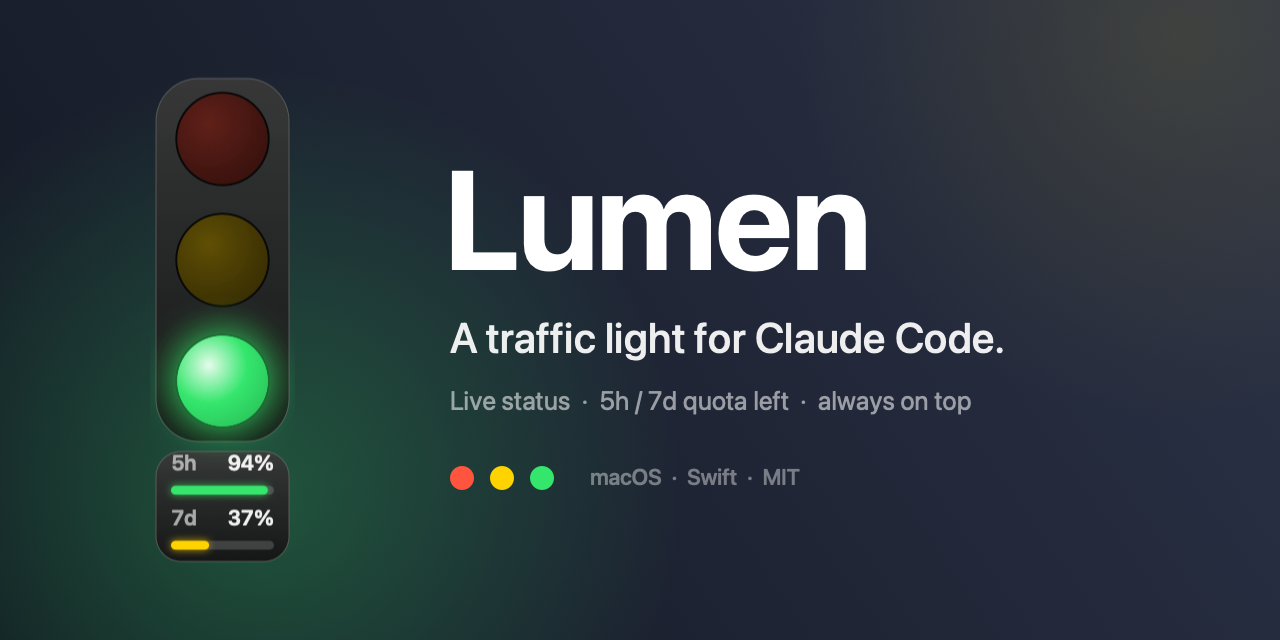
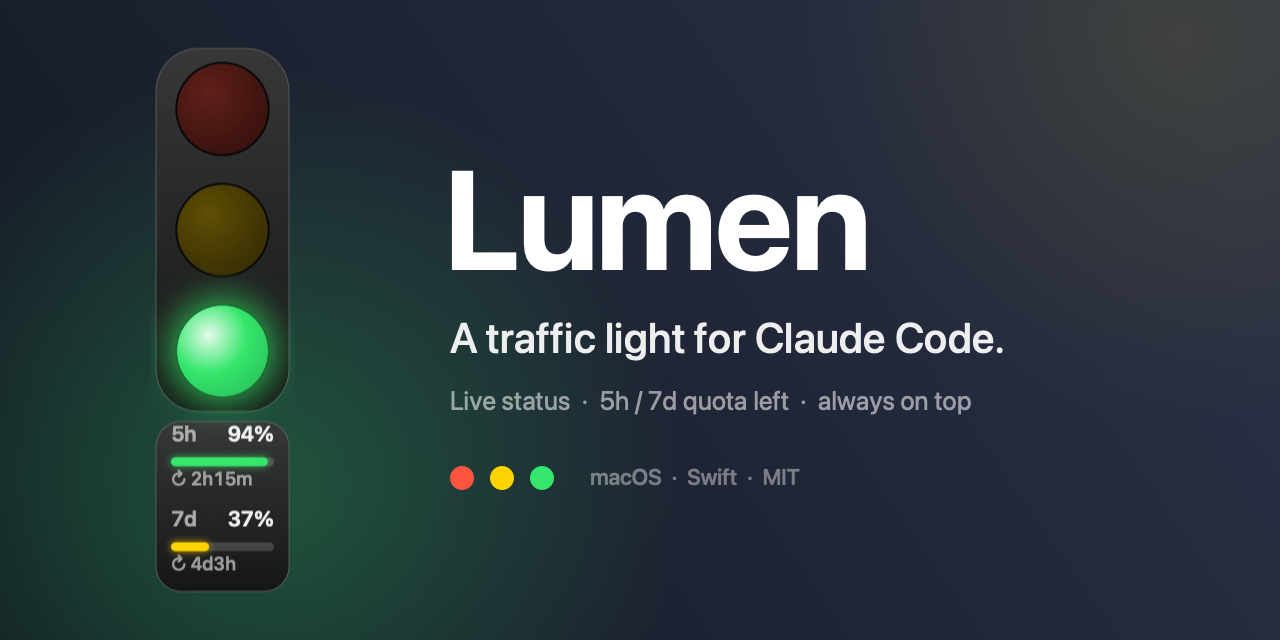
Show time until quota reset in the gauge and menu bar
- Gauge: countdown line under each bar (e.g. "↻ 2h15m", "↻ 4d3h")
- Menu bar title: emoji + remaining % and countdown per window,
  separately toggleable
- Refresh immediately when a window has just reset
- Menu/tooltip: countdown plus absolute reset time
- Update README (en/zh-CN/de) and regenerate banner/state images

Changed region(s): [[0.125, 0.0625, 0.25, 0.8125], [0.125, 0.8438, 0.25, 0.9375]]

diff --git a/Sources/main.swift b/Sources/main.swift
@@ -276,6 +276,18 @@ struct QuotaWindow {
     var used: Double          // verbrauchte Prozent (0–100)
     var resetsAt: Date?
     var remaining: Double { max(0, min(100, 100 - used)) }
+
+    var isExpired: Bool { resetsAt.map { $0 <= Date() } ?? false }
+
+    /// Kompakte Restzeit bis zum Reset: "42m", "2h14m", "4d3h". nil = unbekannt oder bereits abgelaufen.
+    var countdown: String? {
+        guard let r = resetsAt else { return nil }
+        let mins = Int((r.timeIntervalSinceNow / 60).rounded(.up))
+        guard mins > 0 else { return nil }
+        if mins < 60 { return "\(mins)m" }
+        if mins < 24 * 60 { return "\(mins / 60)h\(String(format: "%02d", mins % 60))m" }
+        return "\(mins / 1440)d\((mins % 1440) / 60)h"
+    }
 }
 
 struct QuotaSnapshot {
@@ -341,7 +353,7 @@ enum QuotaFetcher {
 
 final class TrafficLightView: NSView {
     /// Höhe des Kontingent-Bereichs unter der Ampel (bei Skalierung 1.0)
-    static let gaugeAreaHeight: CGFloat = 48
+    static let gaugeAreaHeight: CGFloat = 72
 
     var state: LightState = .off { didSet { needsDisplay = true } }
     var quota: QuotaSnapshot? { didSet { needsDisplay = true } }
@@ -382,13 +394,21 @@ final class TrafficLightView: NSView {
         let inset = 6 * s
         let font = NSFont.monospacedDigitSystemFont(ofSize: 8.5 * s, weight: .semibold)
         let barH = 3.5 * s
+        let small = NSFont.monospacedDigitSystemFont(ofSize: 7.5 * s, weight: .medium)
 
         for (i, row) in rows.enumerated() {
             let rowTop = rect.maxY - rowH * CGFloat(i)
-            let contentH = font.capHeight + 3 * s + barH
-            let bottom = rowTop - rowH / 2 - contentH / 2
+            let contentH = font.capHeight + 3 * s + barH + 5.5 * s + small.capHeight
+            let contentBottom = rowTop - rowH / 2 - contentH / 2
+            let bottom = contentBottom + small.capHeight + 5.5 * s   // Unterkante des Balkens
             let x = rect.minX + inset
             let w = rect.width - inset * 2
+
+            // Restzeit bis zum Reset
+            let cdText = row.1 == nil ? "" : "↻ " + (row.1?.countdown ?? "…")
+            NSAttributedString(string: cdText, attributes: [
+                .font: small, .foregroundColor: NSColor(white: 1, alpha: 0.5 * dim)])
+                .draw(at: NSPoint(x: x, y: contentBottom - small.descender))
 
             // Balken
             let track = NSRect(x: x, y: bottom, width: w, height: barH)
@@ -508,6 +528,12 @@ final class AppDelegate: NSObject, NSApplicationDelegate, NSMenuDelegate {
         get { defaults.object(forKey: "showQuota") as? Bool ?? true }
         set { defaults.set(newValue, forKey: "showQuota") }
     }
+    private var showStatusQuota: Bool {
+        get { defaults.object(forKey: "showStatusQuota") as? Bool ?? true }
+        set { defaults.set(newValue, forKey: "showStatusQuota") }
+    }
+    private var lastQuotaAttempt = Date.distantPast
+    private var lastMinute = 0
     private var quota: QuotaSnapshot?
     private var quotaFetching = false
     private var nextQuotaFetch = Date.distantPast
@@ -608,15 +634,36 @@ final class AppDelegate: NSObject, NSApplicationDelegate, NSMenuDelegate {
             lightView.state = state
             lightView.blinkOn = true
         }
-        statusItem.button?.title = monitoringEnabled ? state.emoji : "⚫"
+        statusItem.button?.attributedTitle = statusTitle(state)
+        let minute = Int(Date().timeIntervalSince1970 / 60)
+        if minute != lastMinute { lastMinute = minute; lightView.needsDisplay = true }
         statusItem.button?.toolTip = "Claude Code 红绿灯 – " + (monitoringEnabled ? state.label : "已暂停")
         lightView.toolTip = tooltipText()
         updatePanelVisibility()
         refreshQuotaIfNeeded()
     }
 
+    /// Menüleisten-Titel: Ampel-Emoji + Rest-% und Zeit bis zum Reset je Fenster.
+    private func statusTitle(_ state: LightState) -> NSAttributedString {
+        let font = NSFont.monospacedDigitSystemFont(ofSize: 11, weight: .medium)
+        guard monitoringEnabled else { return NSAttributedString(string: "⚫", attributes: [.font: font]) }
+        var text = state.emoji
+        if showQuota, showStatusQuota, let q = quota {
+            for (name, w) in [("5h", q.fiveHour), ("7d", q.sevenDay)] {
+                guard let w else { continue }
+                text += " \(name) \(Int(w.remaining.rounded()))%·\(w.countdown ?? "…")"
+            }
+        }
+        return NSAttributedString(string: text, attributes: [.font: font])
+    }
+
     private func refreshQuotaIfNeeded() {
-        guard monitoringEnabled, showQuota, !quotaFetching, Date() >= nextQuotaFetch else { return }
+        guard monitoringEnabled, showQuota, !quotaFetching else { return }
+        let now = Date()
+        // Ein Fenster ist gerade abgelaufen → nicht auf den nächsten Takt warten
+        let expired = [quota?.fiveHour, quota?.sevenDay].contains { $0?.isExpired ?? false }
+        guard now >= nextQuotaFetch || (expired && now.timeIntervalSince(lastQuotaAttempt) > 30) else { return }
+        lastQuotaAttempt = now
         quotaFetching = true
         QuotaFetcher.fetch { [weak self] snap in
             guard let self else { return }
@@ -638,7 +685,7 @@ final class AppDelegate: NSObject, NSApplicationDelegate, NSMenuDelegate {
         if let r = w.resetsAt {
             let f = DateFormatter()
             f.dateFormat = resetFormat
-            line += "  ·  \(f.string(from: r)) 重置"
+            line += "  ·  " + (w.countdown.map { "\($0) 后重置（\(f.string(from: r))）" } ?? "即将重置")
         }
         return line
     }
@@ -697,6 +744,7 @@ final class AppDelegate: NSObject, NSApplicationDelegate, NSMenuDelegate {
         addItem(menu, "显示悬浮红绿灯", #selector(toggleVisible), "", checked: lightVisible).isEnabled = monitoringEnabled
 
         addItem(menu, "显示额度（5h / 7d 剩余）", #selector(toggleQuota), "", checked: showQuota)
+        addItem(menu, "在菜单栏显示额度和重置时间", #selector(toggleStatusQuota), "", checked: showStatusQuota).isEnabled = showQuota
         let sizeItem = NSMenuItem(title: "大小", action: nil, keyEquivalent: "")
         let sizeMenu = NSMenu()
         for (title, value) in [("小", 0.75), ("中", 1.0), ("大", 1.35)] {
@@ -734,6 +782,8 @@ final class AppDelegate: NSObject, NSApplicationDelegate, NSMenuDelegate {
         scale = CGFloat(v)
         applyPanelSize()
     }
+
+    @objc private func toggleStatusQuota() { showStatusQuota.toggle(); tick() }
 
     @objc private func toggleQuota() {
         showQuota.toggle()

diff --git a/README.de.md b/README.de.md
@@ -15,7 +15,7 @@
 
 </div>
 
-Lumen schwebt über allen Fenstern (und in der Menüleiste) und zeigt auf einen Blick, was Claude Code gerade tut – du kannst wegschauen, solange es arbeitet, und kommst genau dann zurück, wenn es dich braucht. Unter der Ampel zeigt ein kleines Messgerät, wie viel von deinem **5-Stunden- und 7-Tage**-Abo-Kontingent noch **übrig** ist.
+Lumen schwebt über allen Fenstern (und in der Menüleiste) und zeigt auf einen Blick, was Claude Code gerade tut – du kannst wegschauen, solange es arbeitet, und kommst genau dann zurück, wenn es dich braucht. Unter der Ampel zeigt ein kleines Messgerät, wie viel von deinem **5-Stunden- und 7-Tage**-Abo-Kontingent noch **übrig** ist und wie lange es bis zum **Reset** dauert.
 
 <div align="center">
 <img src="docs/states.png" alt="Lumen-Zustände: arbeitet, braucht dich, wartet, inaktiv" width="100%">
@@ -26,7 +26,8 @@ Lumen schwebt über allen Fenstern (und in der Menüleiste) und zeigt auf einen 
 - **Immer sichtbare Ampel** + Menüleisten-Symbol, verschiebbar, Position wird gespeichert
 - **Vier Zustände**, gesteuert über Claude-Code-Hooks – kein Auslesen der Terminalausgabe
 - **Mehrere Sessions**: Bei mehreren laufenden Sessions gewinnt die dringendste (🟡 > 🔴 > 🟢)
-- **Kontingent-Anzeige**: verbleibende Prozent für das 5h- und 7d-Fenster, farbige Balken, Zeitpunkt des Resets
+- **Kontingent-Anzeige**: verbleibende Prozent für das 5h- und 7d-Fenster, farbige Balken und ein Live-Countdown bis zum nächsten Reset
+- **Menüleisten-Anzeige**: z. B. `🟢 5h 94%·2h14m 7d 37%·4d3h` – verbleibendes Kontingent und Zeit bis zum Reset immer im Blick
 - Drei Größen, Start bei der Anmeldung, Hooks mit einem Klick entfernen, keine Abhängigkeiten
 
 | Licht | Bedeutung | Ausgelöst durch |
@@ -51,14 +52,16 @@ Beim ersten Start trägt Lumen seine Hooks in `~/.claude/settings.json` ein (das
 ## Bedienung
 
 - Ampel ziehen zum Verschieben; Rechtsklick öffnet das Menü
-- Menüleiste: ein/aus, schwebende Ampel ein-/ausblenden, Kontingent ein-/ausblenden, Größe, Start bei der Anmeldung, Hooks entfernen, Beenden
+- Menüleiste: ein/aus, schwebende Ampel ein-/ausblenden, Kontingent ein-/ausblenden, Kontingent in der Menüleiste, Größe, Start bei der Anmeldung, Hooks entfernen, Beenden
 
 ## Kontingent-Anzeige
 
 Angezeigt wird, was **übrig** ist – nicht, was verbraucht wurde:
 
 - Balkenfarbe: > 40 % grün, 15–40 % gelb, < 15 % rot. `--` heißt: noch keine Daten; Werte, die älter als 10 Minuten sind, werden abgedunkelt
-- Mit dem Mauszeiger über der Ampel oder im Menü siehst du den Reset-Zeitpunkt jedes Fensters
+- `↻ 2h14m` unter jedem Balken ist die Zeit bis zum Reset des Fensters; dieselben Werte stehen in der Menüleiste (`5h 94%·2h14m`). Mit dem Mauszeiger über der Ampel oder im Menü siehst du den genauen Zeitpunkt
+- Sobald ein Fenster zurückgesetzt wird, aktualisiert Lumen die Werte sofort
+- Die Menüleisten-Anzeige lässt sich im Menü separat ausschalten
 - **Datenquelle:** Alle 3 Minuten liest Lumen das OAuth-Token von Claude Code aus dem macOS-Schlüsselbund (`Claude Code-credentials`) und ruft `api.anthropic.com/api/oauth/usage` auf. Das ist ein **nicht dokumentierter Endpunkt**, der sich jederzeit ändern oder wegfallen kann. Das Token wird nur für diese Anfrage verwendet und nie gespeichert
 - macOS fragt beim ersten Zugriff ggf. nach Schlüsselbund-Zugriff – „Immer erlauben“ wählen
 - Im Menü „Kontingent anzeigen“ deaktivieren: Lumen ist wieder eine reine Ampel und sendet keine Anfragen

diff --git a/README.md b/README.md
@@ -15,7 +15,7 @@ English · [简体中文](README.zh-CN.md) · [Deutsch](README.de.md)
 
 </div>
 
-Lumen sits on top of your windows (and in the menu bar) and tells you at a glance what Claude Code is doing – so you can look away while it works and come back exactly when it needs you. Below the light, a small gauge shows how much of your **5-hour and 7-day** subscription quota is **left**.
+Lumen sits on top of your windows (and in the menu bar) and tells you at a glance what Claude Code is doing – so you can look away while it works and come back exactly when it needs you. Below the light, a small gauge shows how much of your **5-hour and 7-day** subscription quota is **left** and how long until each window **resets**.
 
 <div align="center">
 <img src="docs/states.png" alt="Lumen states: working, needs you, waiting, idle" width="100%">
@@ -26,7 +26,8 @@ Lumen sits on top of your windows (and in the menu bar) and tells you at a glanc
 - **Always-on-top traffic light** + menu bar icon, draggable, position is remembered
 - **Four states** driven by Claude Code hooks – no polling of terminal output
 - **Multi-session aware** – with several sessions running, the most urgent one wins (🟡 > 🔴 > 🟢)
-- **Quota gauge** – remaining % for the 5h and 7d windows with colour-coded bars and reset times
+- **Quota gauge** – remaining % for the 5h and 7d windows with colour-coded bars and a live countdown to the next reset
+- **Menu bar readout** – e.g. `🟢 5h 94%·2h14m 7d 37%·4d3h`: remaining quota and time until reset, always visible
 - Three sizes, launch at login, one-click hook uninstall, zero dependencies
 
 | Light | Meaning | Triggered by |
@@ -51,14 +52,16 @@ On first launch Lumen writes its hooks into `~/.claude/settings.json` (the origi
 ## Usage
 
 - Drag the light to move it; right-click it for the menu
-- Menu bar: enable/disable, show/hide the floating light, show/hide the quota gauge, size, launch at login, uninstall hooks, quit
+- Menu bar: enable/disable, show/hide the floating light, show/hide the quota gauge, menu bar quota readout, size, launch at login, uninstall hooks, quit
 
 ## Quota gauge
 
 The gauge shows what is **left**, not what is used:
 
 - Bar colour: > 40 % green, 15–40 % yellow, < 15 % red. `--` means no data yet; values older than 10 minutes are dimmed
-- Hover the light or open the menu to see the reset time of each window
+- `↻ 2h14m` under each bar is the time until that window resets; the same numbers appear in the menu bar (`5h 94%·2h14m`). Hover the light or open the menu for the exact reset time
+- When a window resets, Lumen refreshes the numbers right away
+- The menu bar readout can be turned off separately in the menu
 - **Data source:** every 3 minutes Lumen reads Claude Code's OAuth token from the macOS Keychain (`Claude Code-credentials`) and calls `api.anthropic.com/api/oauth/usage`. This is an **undocumented endpoint** and may change or stop working at any time. The token is used only for this request and never stored
 - macOS may ask for Keychain access on first use – choose "Always Allow"
 - Turn it off in the menu ("Show quota") and Lumen goes back to a plain traffic light and makes no requests
